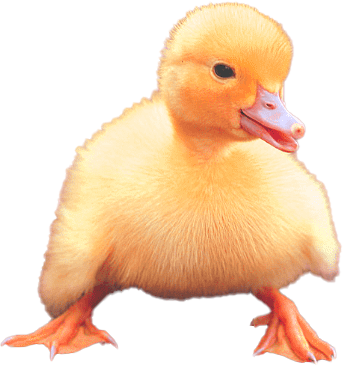
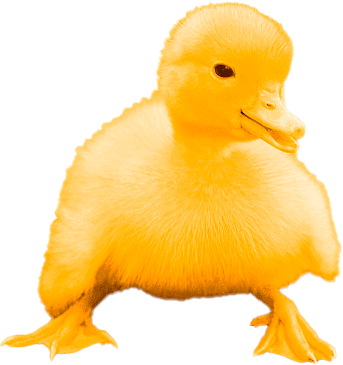
has a cover image to smooth the exit of elements. ducklings have a new color <3

diff --git a/index.html b/index.html
@@ -25,73 +25,85 @@
 
         <!--game screen, after pressing #butt-on-->
 
-        <div id="container"> <!-- has 3 div, should be displayed in row -->
+        <div id="bigFrame">
 
-            <!--this div is for leftCollumn, has 3 div inside: logo, livesCount, cloudCount
-            display collomun-->
-            <div id="leftCollumn">
-                <div id="bubu-img">
-                    <img src="./images/ bubudreamsLOGO.png"  alt="">
-                </div>
+                <div id="container"> <!-- has 3 div, should be displayed in row -->
 
-                <!--livesScreen needs a count over an image-->
+                    <!--this div is for leftCollumn, has 3 div inside: logo, livesCount, cloudCount
+                    display collomun-->
+                    <div id="leftCollumn">
+                        <div id="bubu-img">
+                            <img src="./images/ bubudreamsLOGO.png"  alt="">
+                        </div>
 
-                <div id="livesScreen"><!-- 
-                    <img src="./images/bubu.png" class="bubu-img" alt="" id="livesCat"> -->
-                    <h3 id="livesCountScreen"> LIVES
+                        <!--livesScreen needs a count over an image-->
 
-                    </h3> <!-- APPEND.livesCount -->
-                    <br>
-                    <p id="plives">LIVES</p>
-                </div>
+                        <div id="livesScreen"><!-- 
+                            <img src="./images/bubu.png" class="bubu-img" alt="" id="livesCat"> -->
+                            <h3 id="livesCountScreen"> LIVES
 
-                <!-- cloudsScreen needs a count over an image -->
+                            </h3> <!-- APPEND.livesCount -->
+                            <br>
+                            <p id="plives">LIVES</p>
+                        </div>
 
-                <div id="cloudScreen">
-                    <!-- <img src="./images/nuvenz.png" class="bubu-img" alt="" id="cloudLogo"> -->
-                    <h3 id="cloudCount"> CLOUDS
+                        <!-- cloudsScreen needs a count over an image -->
+
+                        <div id="cloudScreen">
+                            <!-- <img src="./images/nuvenz.png" class="bubu-img" alt="" id="cloudLogo"> -->
+                            <h3 id="cloudCount"> CLOUDS
+                                
+                            </h3><!-- APPEND.cloudCount -->
+                            <br>
+                            <p id="pcloud">CLOUDS</p>
+
+                        </div>
                         
-                    </h3><!-- APPEND.cloudCount -->
-                    <br>
-                    <p id="pcloud">CLOUDS</p>
+                    </div>
+
+                    <!-- this div is for playScreen -->
+                    <div id="playScreen">
+                    
+                    </div>
+
+
+                    <!-- this div is for rightCollumn, has 2 div. should display collumn -->
+
+                    <div id="rightCollumn">
+
+                        <div id="levelScreen">
+                            <h1 id="levelCount"></h1>
+                            <br>
+                            <p id="pLevel">LEVEL</p>
+                        </div>
+
+                        <!-- this div has seconds counting while game(), h1 width should be responsive-->
+
+                        <div id="timeScreen">
+                            <h1 id="secCount"></h1><!-- APPEND.seconds -->
+                            <br>
+                            <p id="pSec">SECONDS</p>
+                        </div>
+
+                        <!-- this div has points counting while game(), h1 width should be responsive -->
+
+                        <div id="pointsScreen">
+                            <h1 id="pointCount"></h1><!-- APPEND.gamePoints -->
+                            <br>
+                            <p id="pPoint">POINTS</p>
+                        </div>
+                    </div>
+                </div >
+
+
+                <div id="containerCurtain">
+                    <img id="cover" src="./images/fundoDebaixo.png" alt="">
+
+
 
                 </div>
-                
-            </div>
 
-            <!-- this div is for playScreen -->
-            <div id="playScreen">
-             
-            </div>
-
-
-            <!-- this div is for rightCollumn, has 2 div. should display collumn -->
-
-            <div id="rightCollumn">
-
-                <div id="levelScreen">
-                    <h1 id="levelCount"></h1>
-                    <br>
-                    <p id="pLevel">LEVEL</p>
-                </div>
-
-                <!-- this div has seconds counting while game(), h1 width should be responsive-->
-
-                <div id="timeScreen">
-                    <h1 id="secCount"></h1><!-- APPEND.seconds -->
-                    <br>
-                    <p id="pSec">SECONDS</p>
-                </div>
-
-                <!-- this div has points counting while game(), h1 width should be responsive -->
-
-                <div id="pointsScreen">
-                    <h1 id="pointCount"></h1><!-- APPEND.gamePoints -->
-                    <br>
-                    <p id="pPoint">POINTS</p>
-                </div>
-            </div>
-        </div >
+        </div>
 
 
          <!-- gameOverScreen - should display games played, div for bestTime, div for best score and restart button -->

diff --git a/game.js b/game.js
@@ -11,6 +11,8 @@ class Game{
         this.gameoverContainer = document.getElementById("gameoverContainer");
         this.scoresScreen = document.getElementById("scoresScreen");
         this.logo =document.getElementById("logo");
+        this.bigFrame = document.getElementById('bigFrame');
+        this.containerCurtain = document.getElementById('containerCurtain');
 
 
         this.hitTheClouds = new HitTheCloudz(this.playScreen);
@@ -92,10 +94,14 @@ class Game{
         /* removing startScreenPannel */
 
         /* show the gamescreen */
+        this.bigFrame.style.display = 'flex';
         this.container.style.display = 'flex';
         this.container.style.justifyContent = 'center';
+        this.containerCurtain.style.display = 'flex';
+
         this.gameoverScreen.style.display = 'none';
         this.scoresScreen.style.display = "none";
+
 
         /* should descend "HIT THE CLOUDS div" */
       
@@ -650,6 +656,11 @@ if(this.secCount%30 === 0 && this.magicClouds.length ===0) {
         this.gameoverContainer.style.display = 'flex'
 
         this.scoresScreen.style.display = 'flex'
+
+
+        this.bigFrame.style.display = 'none';
+
+        this.containerCurtain.style.display = 'none'
 
         this.bubuWokeUp.innerText = 'BUBU WOKE UP'
 

diff --git a/styles.css b/styles.css
@@ -6,7 +6,7 @@
 }
 
 body{
-  background-color: lightblue;
+  background-color: #add8e6;
 }
 
 #startScreenPannel{
@@ -224,3 +224,29 @@ h1,h3{
   width: 100px;
 }
 
+#bigFrame{
+  display: none;
+  flex-direction: column;
+}
+
+#containerCurtain{
+  display: none;
+  background-color:#add8e6;
+  padding: 0;
+  margin: 0;
+  border: none;
+  width: 100%;
+  object-fit: cover;
+
+}
+
+#cover{
+  position: fixed;
+  width: 100%;
+  padding: 0;
+  margin: 0;
+  border: none;
+  object-fit: cover;
+  left: 0;
+  right: 0;
+}
